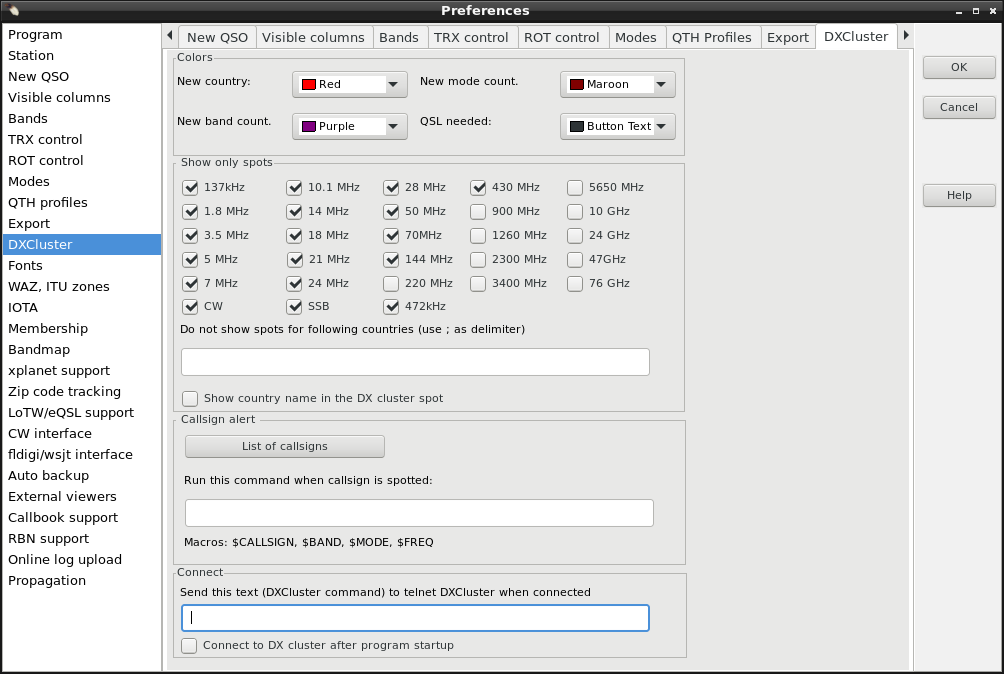
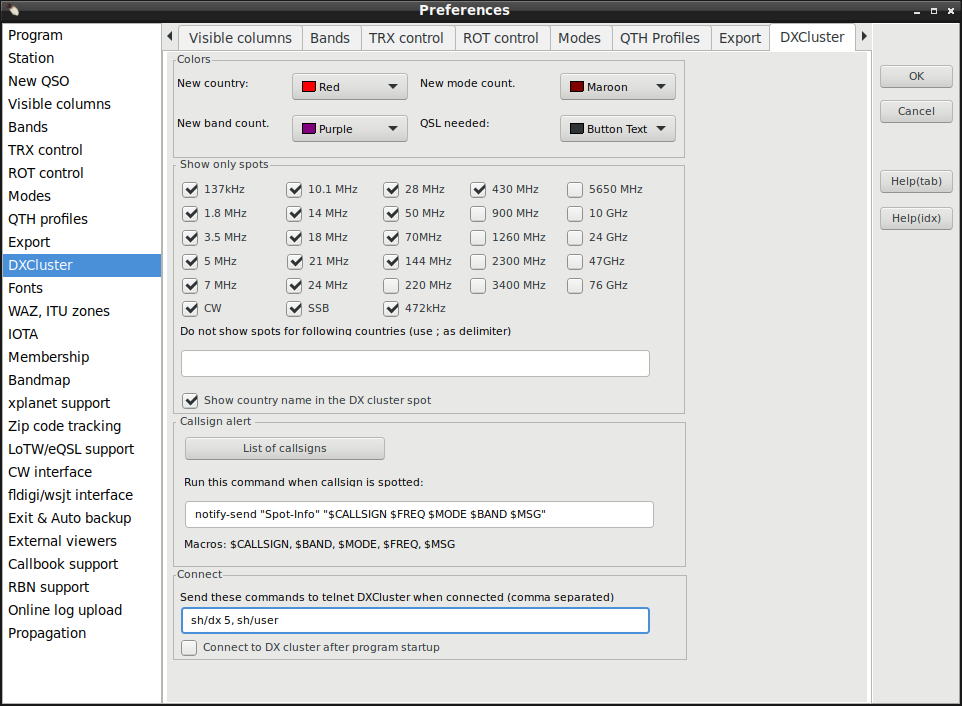
Updates for DXCluster
- Call alert has new macro "$MSG" that includes spot's info text
 - Telnet DXCluster connect command can now send multiple commands (comma separated)
 - Send spot (Ctrl+W) has new button for user defined message. Message can contain same macros that are used in  CW Memory keys
 - help files updated

Squashed commit of the following:

commit dfc7716ca05642ac1c20be40b93293311ee41ca3
Author: OH1KH <oh1kh@sral.fi>
Date:   Fri Jul 31 10:18:30 2020 +0300

    Added comma separated (multiple) start commands for telnet dxcluster connect. Fix for send spot. Help fixed

commit e956ac164def16d4c735a5c3b8d64fbfdc8b9d1d
Author: OH1KH <oh1kh@sral.fi>
Date:   Thu Jul 30 22:10:27 2020 +0300

    some testing and help additions (unfinished)

commit bde7ce085da62a6eaeaed5ed41c603ea1c47663d
Author: OH1KH <oh1kh@sral.fi>
Date:   Sun Jul 26 16:09:44 2020 +0300

    SendSpot UserString now uses CW predefined macros. DXCluster alert call parameter 'MSG' (spot freeText) added (but not yet tested at all).Help is NOT updated, yet

commit 2feda92cd9242775e232d26c11921dd75305b42e
Author: OH1KH <oh1kh@sral.fi>
Date:   Sat Jul 25 18:50:22 2020 +0300

    Added user string button to send dx spot

diff --git a/help/h21.html b/help/h21.html
@@ -49,10 +49,17 @@ messages indicating progress. You can enter any command into the 'Command' field
 
 
 </p><img src="img/h4b.png" border="0"> <img src="img/h4c.png" border="0"><br><p>
-With <b>Ctrl-W</b> you can send a spot to DXCluster if you are connected. If NewQSO is empty the spot is generated from last logged call from current log. If there is a call entered in NewQSO/Call field it will be used for spot generation.
-Additionally you can add used Mode and RST sent by pressing button <b>+Mode_Rst</b> and/or add locators by pressing button <b>+Locators</b>.
-<br>Locator separators <b>&lt;&gt;</b> will have propagation mode included if it is set from <b>NewQSO/Satellite/Propagation</b>.
-<br>Both strings can be added only once. To edit or delete added strings you must use keyboard's delete button. When spot looks good <b>press enter</b> or click button <b>OK</b> and it will be sent.
+With <b>Ctrl-W</b> you can send a spot to DXCluster if you are connected. If NewQSO is empty the spot is generated from last logged call from current log. 
+If there is a call entered in NewQSO/Call field NewQSO information will be used for spot generation.
+Additionally you can add used Mode and RST sent by pressing button <b>+Mode_Rst</b> and/or add locators by pressing button <b>+Locators
+</b>. Locator separators <b>&lt;&gt;</b> will have propagation mode included if it is set from <b>NewQSO/Satellite/Propagation</b>.
+<br> <b>+UsrMsg</b> adds user defined message.
+<br>User message can be generated with <b>right</b> mouse click to button. Same predefined macros as in <a href="h26.html#predef"><b>cw messages</b></a> can be used.
+<br>Moving mouse cursor over button a hint will show the text what is added by pressing button.
+<br><br><b>Note!</b> There is a limited space to spot info. User string generation warns you about long message, but it is up to you to decide.
+<br>You must cancel spot sending and reopen it with Ctrl+W to get User message up to date after editing it.
+<br>
+<br>Strings can be added only once. To edit or delete added strings you must use keyboard's delete button. When spot looks good <b>press enter</b> or click button <b>OK</b> and spot will be sent to connected DXCluster.
 <br><br>
 With <b>Ctrl-Z</b> you can scroll back 5 last used DXCluster commands. It is very handy if you make error
  in cluster command. You do not have to retype everything, just Ctrl-Z and then fix the command and send it again.

diff --git a/help/h1.html b/help/h1.html
@@ -329,13 +329,25 @@ to display. If you want to supress (ie. filter out) spots for some DX countries,
 its prefixes in the box below. Use a semicolon as a separator.
 <p>
 <strong>Callsign alert</strong> - allows you to enter callsigns that you are interested in. Eg. some special station for an award etc.<br>
-<strong>Run this command when callsign is potted:</strong> will run select command when any of callsigns you've enter appears in the cluster.<br>
+<strong>Run this command when callsign is spotted:</strong> will run select command when any of callsigns you've enter appears in the cluster.<br>
 E.g. use this if you want to see small window with information:<br><br>
 <i> zenity --info --text='Callsign $CALLSIGN detected at $FREQ $MODE' --title=Info</i><br><br>
 You have to install zenity, first. <i>(Thans to SV2RCK for the tip!)</i>
+<br><br>A variant for the KDE desktop.<br>
+The display duration in seconds (here 5) can be set here. The window closes automatically.
+<br><br><i>kdialog --title=Spot-Info --passivepopup "Callsign $CALLSIGN detected at $FREQ $MODE" 5</i>
+<br><br>
+This is also possible with "notify-send". The display duration is set in ms (-t 5000).
+<br><br>
+<i>notify-send -t 5000 "Spot-Info" "Callsign $CALLSIGN detected at $FREQ $MODE"</i>
+<br><br>
+"Kdialog" is installed by default using the 'kdebase-bin' package. For "notify-send" the 'libnotify-bin' package must be installed. <i>(Thans to Wolfgang, DL2KI, for the tip!)</i>
+
+
 </p>
 <p>
 <strong>Show country name in the DX cluster spot</strong> - next to every spot, you will se the coutry name of the DX station<br>
+<strong>Send these commands to telnet DXCluster when connected</strong> - one or several commands with comma separated can be sent to DXCluster after connect is initialized.<br>
 <strong>Connect to DX cluster after program startup</strong> - after log is opened, cqrlog will connect to your default cluster. Please remember that
 username and password(if needed) have to be filled in the cluster list.
 </p>

diff --git a/help/h26.html b/help/h26.html
@@ -38,8 +38,8 @@
     Choose the <strong>CW Messages</strong> option. By using the form opened you can edit your CW messages that
     will be sent when you press the corresponding <strong>F</strong>-key(s).
     You can set up to 10 predefined messages:<br><br>
-    <img src=img/h97.png><br><br>
-    There are some predefined macros which you can use in your messages:<br><br>
+    <img src=img/h97.png><br><br><a name="predef">
+    There are some predefined macros which you can use in your messages:</a><br><br>
     <table border="0" cellpadding="5" cellspacing="2" width="50%">
         <tbody>
         <tr>
